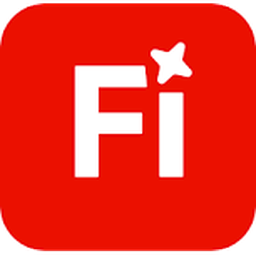
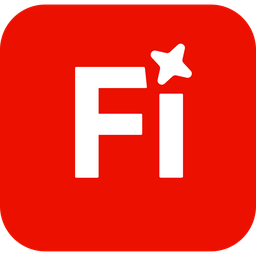
Header is text: the title and Version 1.0
The logo is the window's icon -- tab, taskbar, splash. Repeating it in the
header two centimetres from itself only cost width, so the header is now what
an application title bar is for: the name and the version.

The version text comes from the server's APP_VERSION, so the header and the
splash cannot drift from each other or from the code that is actually running.
The markup carries "Version 1.0" as the fallback for the moment before that
resolves.

Icon rebuilt from Adobe_Firefly_Logo.svg.webp -- 960x926 with a real alpha
channel -- rather than the 153px paletted copy it was using. Same mark, six
times the resolution, so it stays clean at every size it gets drawn at.

Caught while doing this, and worth recording because it failed silently:
splice_style.py rebuilds the stylesheet from a list of fragments, and
engine.css was being appended by a DIFFERENT script straight into the html.
Re-running the style splice therefore deleted 9,400 characters of engine
styling -- no error, page still loaded, everything just looked wrong. Every
fragment is one list in one place now, the script refuses to run if one is
missing, and verify_css.py asserts each one survived the splice.

diff --git a/webui/index.html b/webui/index.html
@@ -114,12 +114,10 @@ header.topbar{
   max-width:1560px;margin:0 auto;padding:0 20px;
   display:flex;align-items:stretch;gap:18px;min-height:54px;
 }
-.brandmark{display:flex;align-items:center;gap:10px;padding:8px 0;
+/* No mark in here -- the logo is the window's icon (tab, taskbar, splash) and
+   repeating it beside itself only costs width. */
+.brandmark{display:flex;align-items:center;padding:8px 0;
   min-width:0;flex:0 1 auto}
-/* border-radius matches the icon's own rounded square so it does not sit on
-   a slightly different corner radius to everything else in the bar. */
-.brandmark .glyph{width:24px;height:24px;flex:none;display:block;
-  border-radius:5px}
 .brandmark .txt{min-width:0}
 .brandmark b{display:block;font:600 13.5px var(--sans);letter-spacing:-.012em;
   color:var(--g900);white-space:nowrap;overflow:hidden;text-overflow:ellipsis}
@@ -548,6 +546,7 @@ a.loc1.link:hover{background:var(--accent);color:#fff}
 
 [hidden]{display:none !important}
 
+
 /* ==========================================================================
    Carried over from the previous sheet, re-themed.
 
@@ -956,6 +955,7 @@ header.topbar .ghlink{margin-left:0;align-self:center;flex:none}
   padding:5px 13px;font:500 11.5px var(--sans);cursor:pointer}
 .splretry:hover{background:var(--accent-hi)}
 
+
 /* ==========================================================================
    The engine
 
@@ -1168,16 +1168,14 @@ header.topbar .ghlink{margin-left:0;align-self:center;flex:none}
      horizontal scrollbar on the page. -->
 <div class="topinner">
 
+  <!-- Text only. The mark is the window's icon -- in the tab, the taskbar and
+       on the splash -- and repeating it two centimetres away from itself in
+       the header adds nothing but width. The title bar of an application
+       names the application and its version; that is the whole job. -->
   <div class="brandmark" title="campaign brief in &rarr; on-spec, checked creatives out">
-    <!-- Adobe Firefly's mark, used because this is a take-home exercise being
-         submitted TO Adobe for a Firefly Services role. It is Adobe's
-         trademark, not this project's, and its presence is not a claim of
-         affiliation or endorsement -- see the note in the README. -->
-    <img class="glyph" src="/appicon.png" alt="" width="24" height="24">
     <div class="txt">
       <b>FDE Social Content Agentic Automation &amp; Analytics</b>
-      <span>Author, Douglas McKay,
-        <a href="mailto:doug@dougmckay.info">doug@dougmckay.info</a></span>
+      <span id="appver">Version 1.0</span>
     </div>
   </div>
 
@@ -1544,7 +1542,11 @@ async function init(){
     step('server', 'err', 'no answer on this port');
     return splashFailed('The app could not reach its own server.');
   }
+  // Both from the server's APP_VERSION, so the header and the splash cannot
+  // drift apart or from the code that is actually running. The markup carries
+  // "Version 1.0" as a static fallback for the moment before this resolves.
   $('#splver').textContent = 'v' + (r.version || '1.0');
+  $('#appver').textContent = 'Version ' + (r.version || '1.0');
   step('server', 'ok', r.briefs.length + ' brief'
        + (r.briefs.length === 1 ? '' : 's') + ' found');
 

diff --git a/README.md b/README.md
@@ -3,10 +3,10 @@
 **Douglas McKay** · <doug@dougmckay.info> · take-home exercise for Adobe
 Firefly Services, Forward Deployed Engineer (Creative AI)
 
-> The Adobe Firefly icon appears in this app's window and splash because this
-> is an exercise submitted to Adobe for a Firefly Services role. Adobe Firefly
-> and the Firefly mark are trademarks of Adobe Inc.; this project is not
-> affiliated with, sponsored by or endorsed by Adobe.
+> The Adobe Firefly icon is used as this app's window and splash icon because
+> this is an exercise submitted to Adobe for a Firefly Services role. Adobe
+> Firefly and the Firefly mark are trademarks of Adobe Inc.; this project is
+> not affiliated with, sponsored by or endorsed by Adobe.
 
 A campaign brief goes in. An organized folder of on-spec, checked social
 creatives comes out — every product, every market, every aspect ratio — from
